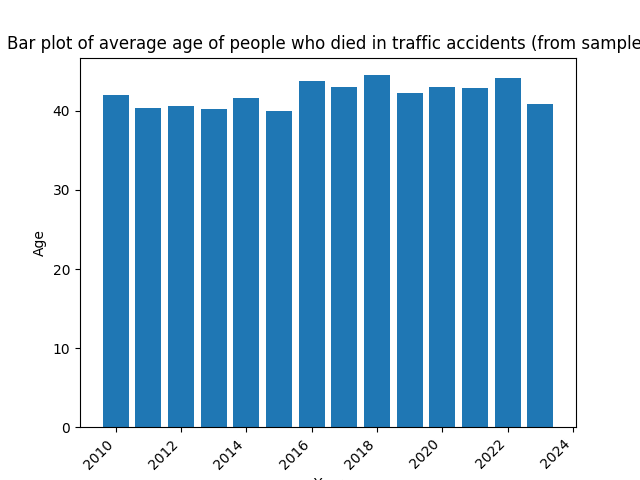
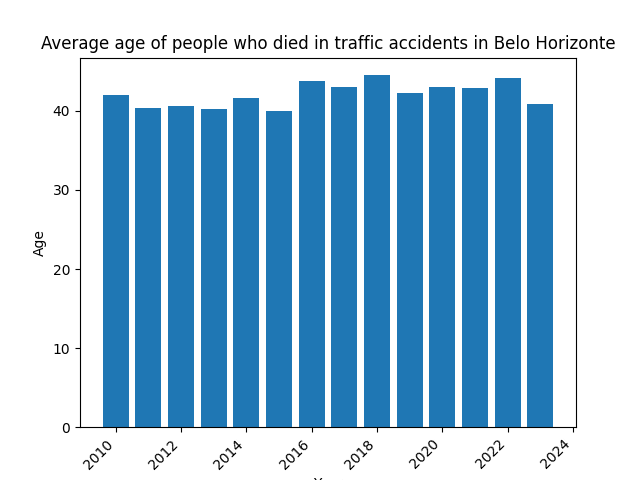
Fixing lint warnings and graphic title

Changed region(s): [[0.0, 0.0625, 1.0, 0.125]]

diff --git a/src/accident_analysis_mg.py b/src/accident_analysis_mg.py
@@ -42,14 +42,16 @@ def clean_data(df):
 
 
 def generate_mean_age_per_year_in_bh_graphic(df):
-    grouped = df[df["city"] == "Belo Horizonte"].groupby(["year"]).mean("age").sort_values(by="year")
+    grouped = df[df["city"] == "Belo Horizonte"].groupby(["year"])
+    grouped = grouped.mean("age").sort_values(by="year")
+
     plt.bar(grouped.index, grouped["age"])
-    plt.title("Bar plot of average age of people who died in traffic accidents (from sample)")
+    plt.title("Average age of people who died"
+              " in traffic accidents in Belo Horizonte")
     plt.xlabel("Year")
     plt.ylabel("Age")
     plt.xticks(rotation=45, horizontalalignment='right')
     plt.savefig("./output/mean_age_per_year_in_bh.png")
-    return grouped
 
 
 if __name__ == "__main__":

diff --git a/README.md b/README.md
@@ -12,9 +12,7 @@ Data analysis on accidents that occurred in the state of "Minas Gerais", Brazil
 
 ## Results
 
-### Mean age on traffic accident in Belo Horizonte from 2010 to 2024
-
-![clocked app](https://github.com/vncsmyrnk/accidents-analysis-mg/blob/main/src/output/mean_age_per_year_in_bh.png)
+![Bar plot of mean age of people who died in traffic accidents in Belo Horizonte](https://github.com/vncsmyrnk/accidents-analysis-mg/blob/main/src/output/mean_age_per_year_in_bh.png)
 
 ## Run
 
